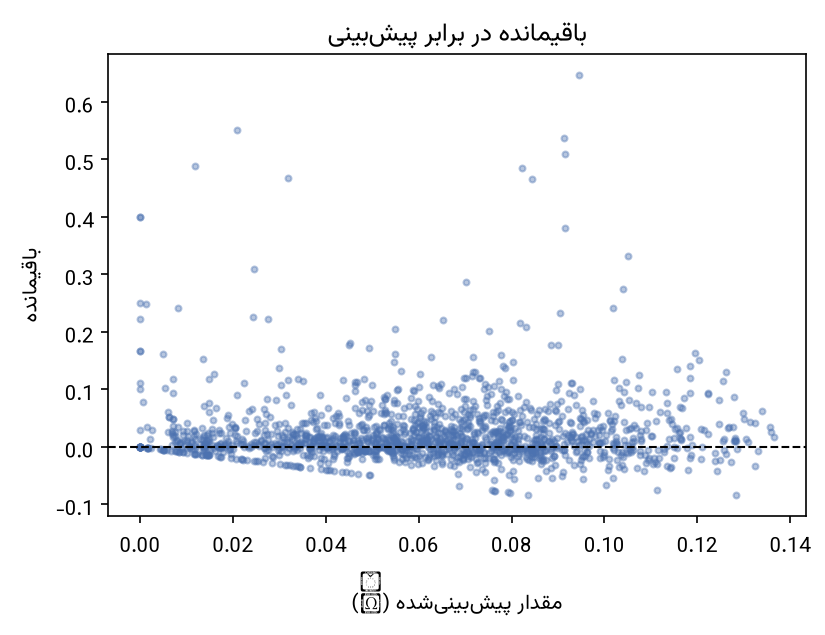
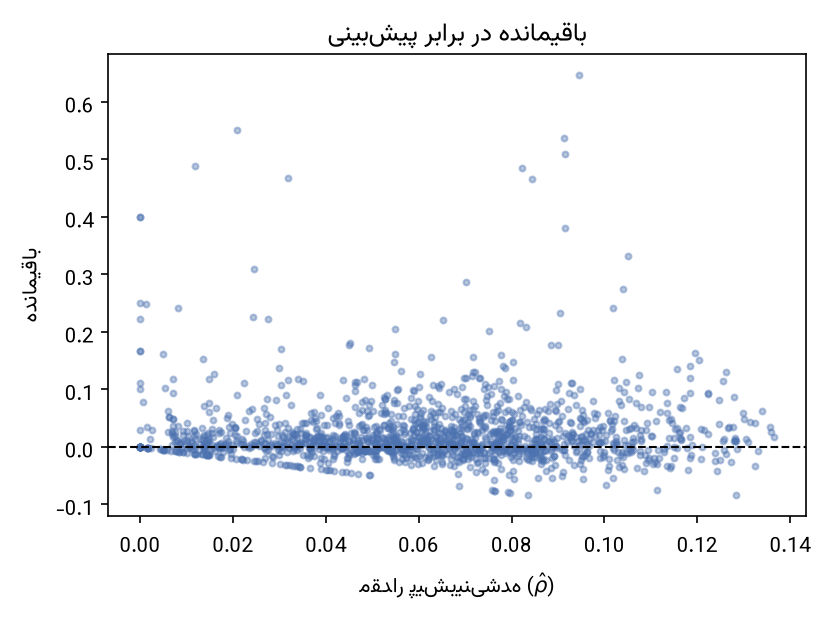
fix(phase8): رفع مشکل نمایش کاراکتر ρ̂ در نمودارهای باقیمانده
برچسب محور x بهجای یونیکد ترکیبی ρ̂ (که با فونت گزارش به تیغهی تهی
رندر میشد) از mathtext لاتک ($\hat\rho$) استفاده میکند؛ همان الگویی
که در سایر اسکریپتهای src/models/ برای فرمولهای ریاضی بهکار رفته.
نمودار بازتولید و نسخهی final_report/img بهروز شد.

diff --git a/src/models/run_phase8_residuals.py b/src/models/run_phase8_residuals.py
@@ -45,7 +45,7 @@ def fig_hist_qq(df: pd.DataFrame) -> tuple[str, str]:
     ax.hist(r, bins=40, color="#4C72B0", edgecolor="white")
     ax.axvline(0.0, color="black", linewidth=1, linestyle="--")
     ax.set_title(fa(f"توزیع باقیمانده — {CHAMPION} روی Test قفلشده"))
-    ax.set_xlabel(fa("باقیمانده (ρ − ρ̂)"))
+    ax.set_xlabel(fa("باقیمانده ($\\rho - \\hat\\rho$)"))
     ax.set_ylabel(fa("فراوانی"))
     p1 = save_fig(fig, "8.2_residual_hist.png", FIG_DIR)
     plt.close(fig)
@@ -64,7 +64,7 @@ def fig_resid_vs(df: pd.DataFrame) -> dict[str, str]:
     fig, ax = plt.subplots(figsize=(6, 4))
     ax.scatter(df[f"pred__{CHAMPION}"], df["resid"], s=8, alpha=0.4, color="#4C72B0")
     ax.axhline(0.0, color="black", linewidth=1, linestyle="--")
-    ax.set_xlabel(fa("مقدار پیشبینیشده (ρ̂)"))
+    ax.set_xlabel(fa("مقدار پیشبینیشده ($\\hat\\rho$)"))
     ax.set_ylabel(fa("باقیمانده"))
     ax.set_title(fa("باقیمانده در برابر پیشبینی"))
     p = save_fig(fig, "8.2_resid_vs_pred.png", FIG_DIR)
